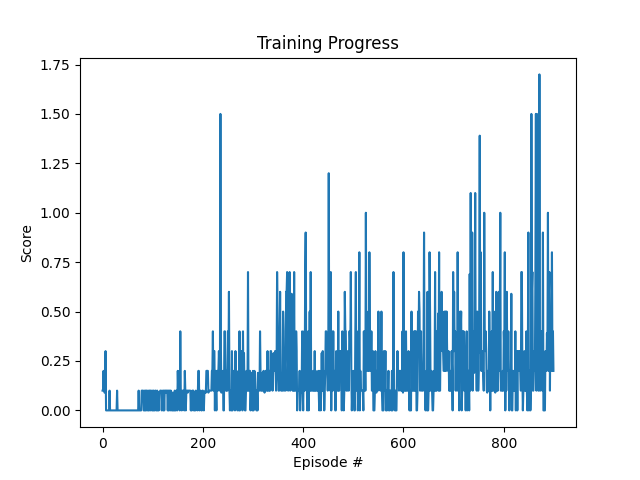
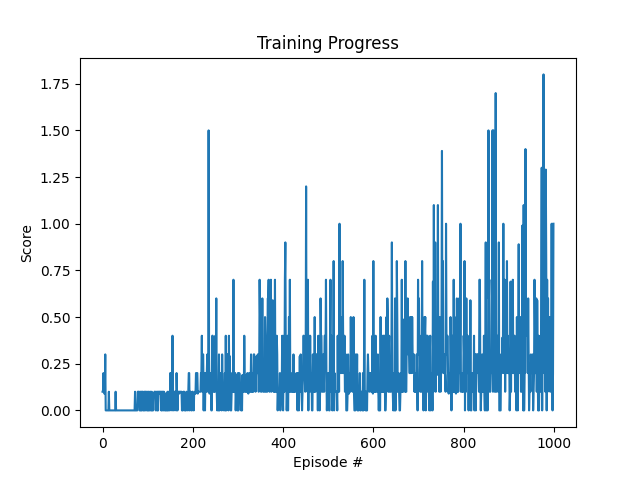
improve readme

diff --git a/README.md b/README.md
@@ -37,7 +37,7 @@ os.environ['PATH'] = f"{os.environ['PATH']}:/home/[USERNAME]/mambaforge/envs/py3
 - Training is done several times to allow me to debug each training, the first training is done in 1250 episodes, this the plot for first 1250 episodes
   <img src="https://github.com/vyredo/udacity_tennis/blob/main/Report/scores_plot_prev_1250.png" />
 - The second training's plot
-  <img src="https://github.com/vyredo/udacity_tennis/blob/main/Report/scores.png" />
+  <img src="https://github.com/vyredo/udacity_tennis/blob/main/Report/scores_plot.png" />
 
 - Pretrained Model: The trained model is saved at:
 
